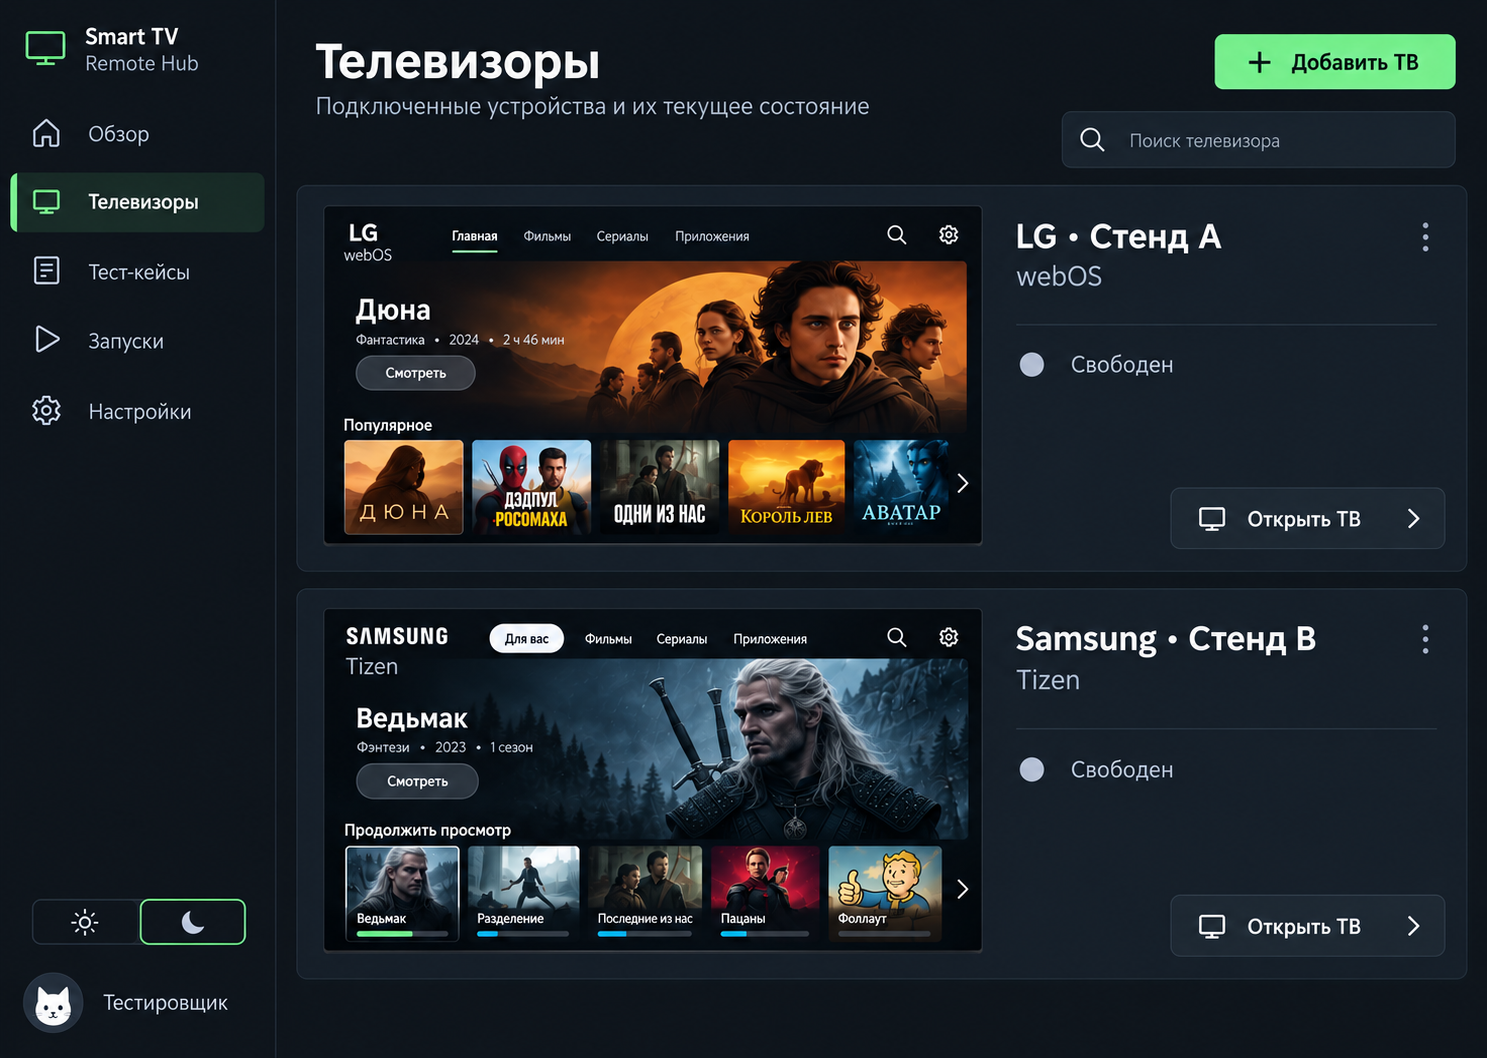
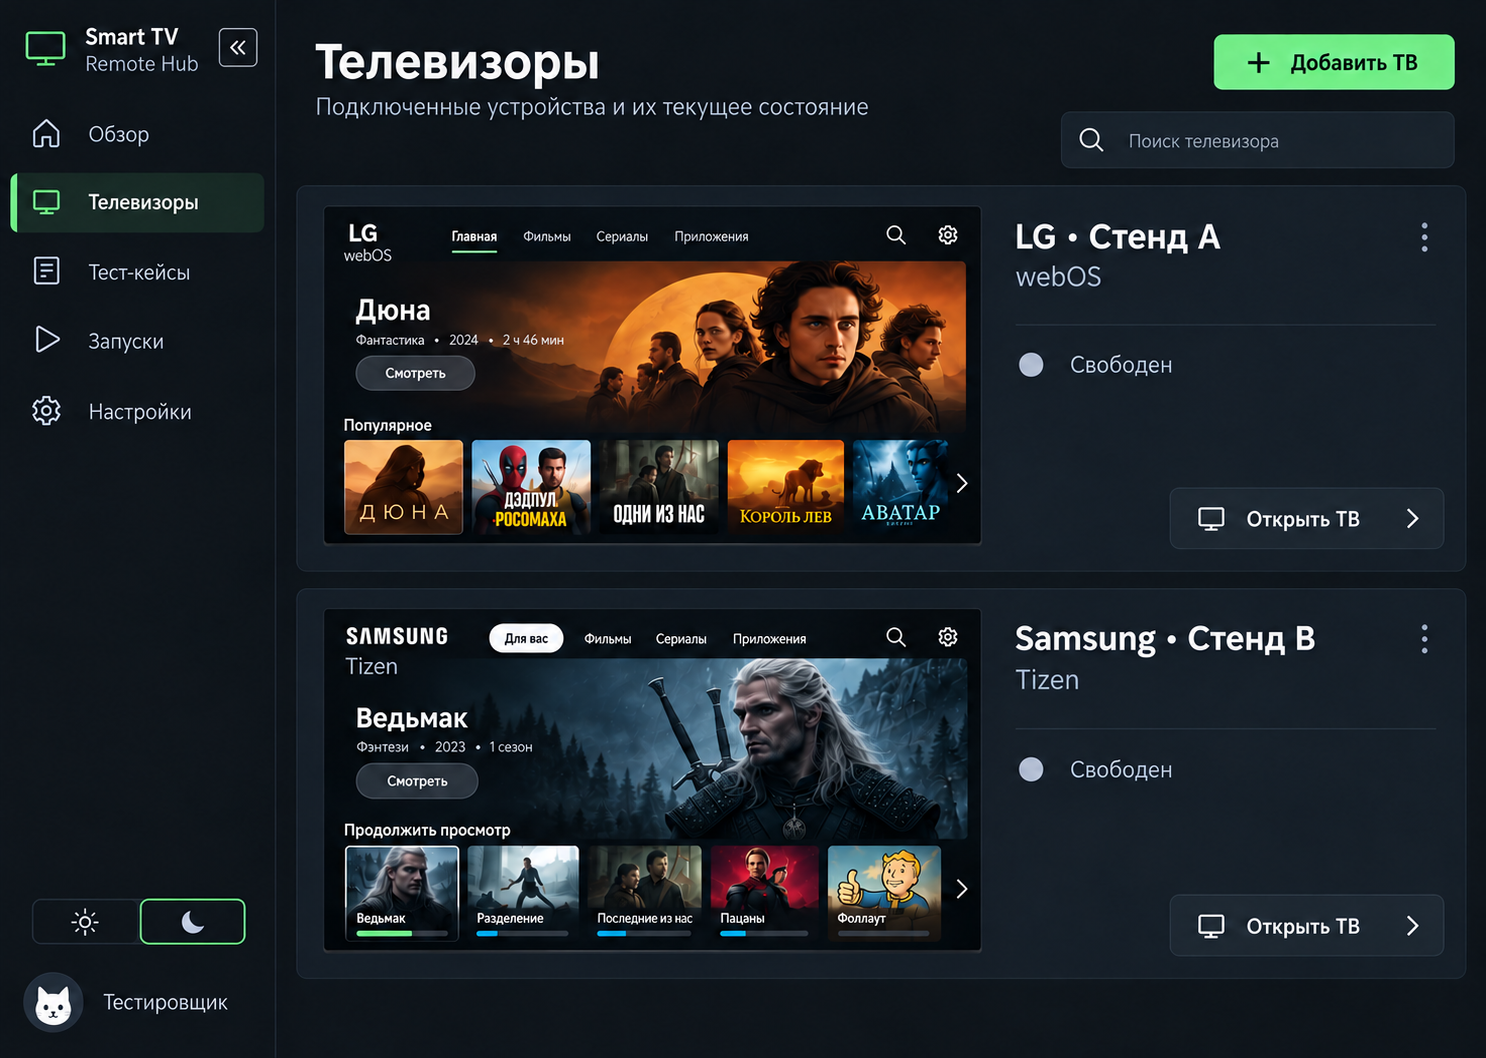
docs: update sidebar controls in design references

diff --git a/docs/superpowers/specs/2026-10-11-product-ui-design.md b/docs/superpowers/specs/2026-10-11-product-ui-design.md
@@ -38,8 +38,8 @@
 | Настройки | Шестерёнка | Интерфейс, хранение, интеграции |
 
 - Меню закреплено у левого края окна без внешнего отступа. Развёрнутая ширина 224 px, свёрнутая 72 px.
-- Пользователь может свернуть и развернуть его видимой кнопкой с шевроном. В свёрнутом состоянии остаются иконки, активный пункт и подсказки с названиями.
-- Состояние меню сохраняется для текущего браузера; одна и та же настройка используется кнопкой в меню и параметром в настройках.
+- Пользователь сворачивает и разворачивает меню кнопкой с шевроном на самом меню. Кнопка видна и доступна в обоих состояниях; её название и подсказка меняются между «Свернуть меню» и «Развернуть меню». В свёрнутом состоянии остаются иконки, активный пункт и подсказки с названиями.
+- Состояние меню сохраняется для текущего браузера. Управление свёрнутостью не дублируется в настройках.
 - Один знак и одинаковое написание Smart TV Remote Hub на всех экранах. В свёрнутом состоянии используется компактный знак бренда, не повторяющий иконку активного раздела.
 - Активный пункт: нейтральная подсвеченная поверхность, зелёная полоса слева и контурная иконка. Не менять контурную иконку на залитую при выборе.
 - На вложенном экране остаётся активным родительский раздел. Профиль выделяется только на странице профиля; на настройках он не подсвечен.
@@ -154,7 +154,7 @@
 
 ### 6.8. Настройки — Интерфейс
 
-Подменю: «Интерфейс», «Хранение», «Интеграции». Здесь только светлая/тёмная тема, язык русский/английский и состояние бокового меню. Перевод интерфейса не переводит текст тест-кейса. Интеграции здесь не дублируются. Показанный интерфейс соответствует выбранной теме и состоянию меню.
+Подменю: «Интерфейс», «Хранение», «Интеграции». В разделе «Интерфейс» только светлая/тёмная тема и язык русский/английский. Пункта «Сворачивать боковое меню» и отдельного блока «Навигация» нет: свёрнутость переключается кнопкой на самом меню. Перевод интерфейса не переводит текст тест-кейса. Интеграции здесь не дублируются. Показанный интерфейс соответствует выбранной теме.
 
 ### 6.9. Настройки — Хранение
 
@@ -183,6 +183,8 @@
 
 ## 8. Сохранённые референсы
 
+Комплект обновлён: кнопка сворачивания находится на меню каждого экрана; в настройках интерфейса оставлены тема и язык. Отдельный референс показывает свёрнутое меню с кнопкой разворачивания.
+
 Снимки хранятся в проекте и содержат демонстрационные данные. Принимать их только вместе с правилами выше.
 
 | № | Экран | Референс |
@@ -198,13 +200,14 @@
 | 9 | Хранение | [Макет](../../design/mockups/2026-10-11/09-settings-storage.png) |
 | 10 | Интеграции | [Макет](../../design/mockups/2026-10-11/10-settings-integrations.png) |
 | 11 | Профиль | [Макет](../../design/mockups/2026-10-11/11-profile.png) |
+| 12 | Управление ТВ — свёрнутое меню | [Макет](../../design/mockups/2026-10-11/12-tv-control-collapsed.png) |
 
-Известные отклонения референсов: ширины меню и плотность отличаются; на части экранов Play без круга; оттенки зелёного и аватары не полностью совпадают; местами остаются лишние рамки, градиент и неверный цвет «Готов к запуску». Кнопка сворачивания есть не на каждом изображении. Это дефекты изображений, не разрешённые исключения из ТЗ.
+Известные отклонения референсов: ширины меню и плотность отличаются; на части экранов Play без круга; оттенки зелёного и аватары не полностью совпадают; местами остаются лишние рамки, градиент и неверный цвет «Готов к запуску». Это дефекты изображений, не разрешённые исключения из ТЗ.
 
 ## 9. Критерии приёмки реализации
 
 - [ ] Все экраны используют общую оболочку, токены и компоненты, без локальных копий стилей одинаковых элементов.
-- [ ] Меню имеет одинаковый порядок, размеры, логотип и профиль; работает сворачивание и восстановление состояния.
+- [ ] Меню имеет одинаковый порядок, размеры, логотип и профиль; кнопка на самом меню работает в обоих состояниях, её название соответствует действию; состояние восстанавливается после перезагрузки. В настройках нет дублирующего управления свёрнутостью.
 - [ ] На настройках не выделен профиль; на профиле не выделен другой раздел.
 - [ ] Цвета и значки статусов совпадают во всех представлениях; смысл понятен без цвета.
 - [ ] Пульт сохраняет раскладку и один контур корпуса, без внешней карточки и лишнего заголовка.

diff --git a/docs/superpowers/plans/2026-10-11-app-shell.md b/docs/superpowers/plans/2026-10-11-app-shell.md
@@ -23,6 +23,7 @@
 ## Общие ограничения
 
 - Меню 224 px / 72 px, у левого края, одинаковые иконки и порядок из ТЗ.
+- Сворачивание и разворачивание — только кнопкой на самом меню, доступной в обоих состояниях. В настройках нет соответствующего пункта или блока «Навигация».
 - Все значения палитры из раздела 4 ТЗ; семантические переменные вместо новых локальных цветов.
 - Существующая раскладка пульта, удержание кнопок, pointer capture, запрет команд за диалогом и очистка камеры сохраняются.
 - Перемещение раздела не отправляет команды и не меняет выбор ТВ незаметно.
@@ -56,7 +57,7 @@
 
 **Интерфейсы:** `AppSidebar({ collapsed, onToggleCollapsed, username, activeSection, disabled, onOpenTelevisions })`. `activeSection` для первого шага — `televisions`. `useUiPreferences()` возвращает `{ collapsed, setCollapsed, persistenceError }`; ключ `smart-tv-remote-hub.ui-preferences.v1`, данные `{ collapsed: boolean }`. Некорректные значения не исполняются и не расширяют схему.
 
-- [ ] Написать тесты порядка и доступных названий пяти разделов, единственного текущего пункта, подсказок свёрнутого состояния и действия разворачивания.
+- [ ] Написать тесты порядка и доступных названий пяти разделов, единственного текущего пункта, подсказок свёрнутого состояния; кнопка «Свернуть меню» остаётся доступной как «Развернуть меню» после нажатия и возвращает развёрнутое состояние при повторном нажатии.
 - [ ] Добавить тесты чтения/сохранения предпочтения, повреждённого JSON, неверного типа и ошибки хранилища; ошибка сохранения не отменяет переключение в текущей сессии.
 - [ ] Выполнить тесты до реализации, подтвердить отказ по отсутствующим компонентам.
 - [ ] Реализовать меню и предпочтения. Будущие разделы — недоступные элементы с пояснением, без рабочей ссылки или фиктивного экрана.
@@ -86,5 +87,5 @@
 ## Следующие самостоятельные этапы
 
 1. Светлая тема: согласовать полноценный экран, ввести светлые семантические токены, переключатель темы и сохранение выбора; проверить все существующие поверхности.
-2. Локализация: единый словарь всех доступных экранов, русский/английский, язык только в общих настройках, `document.lang`, сохранение выбора. Пользовательские сценарии и названия ТВ не переводятся.
+2. Локализация: единый словарь всех доступных экранов, русский/английский, язык только в общих настройках, `document.lang`, сохранение выбора. Пользовательские сценарии и названия ТВ не переводятся. В тестах общих настроек проверить отсутствие дублирующего управления свёрнутостью меню.
 3. Общие настройки и профиль; создание тест-кейсов и импорт — отдельные планы по мере перехода к ним.
